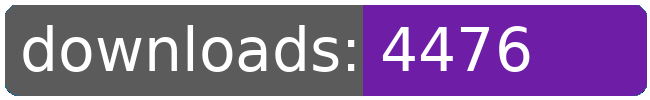
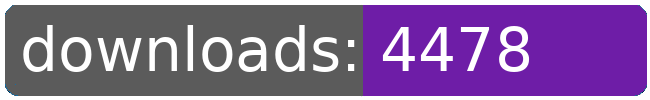
dl log written

Changed region(s): [[0.7692, 0.24, 0.8308, 0.57], [0.7692, 0.57, 0.8, 0.72]]

diff --git a/README.md b/README.md
@@ -21,8 +21,8 @@
 		<td>4410</td>
 		<td>4436</td>
 		<td>4464</td>
-		<td>4476</td>
-		<td>+ 12</td>
+		<td>4478</td>
+		<td>+ 14</td>
 	</tr>
 	<tr>
 		<td>aberrant.kahet.outfitter</td>
@@ -274,8 +274,8 @@
 		<td></td>
 		<td></td>
 		<td></td>
-		<td>67128</td>
-		<td>208</td>
+		<td>67130</td>
+		<td>210</td>
 	</tr>
 </table>
 </sub></sup>
@@ -311,8 +311,8 @@
 		<td>4410</td>
 		<td>4436</td>
 		<td>4464</td>
-		<td>4476</td>
-		<td>+ 12</td>
+		<td>4478</td>
+		<td>+ 14</td>
 	</tr>
 	<tr>
 		<td>bunrodeaoutfitter</td>
@@ -553,8 +553,8 @@
 		<td></td>
 		<td></td>
 		<td></td>
-		<td>67128</td>
-		<td>208</td>
+		<td>67130</td>
+		<td>210</td>
 	</tr>
 </table>
 </sub></sup>
